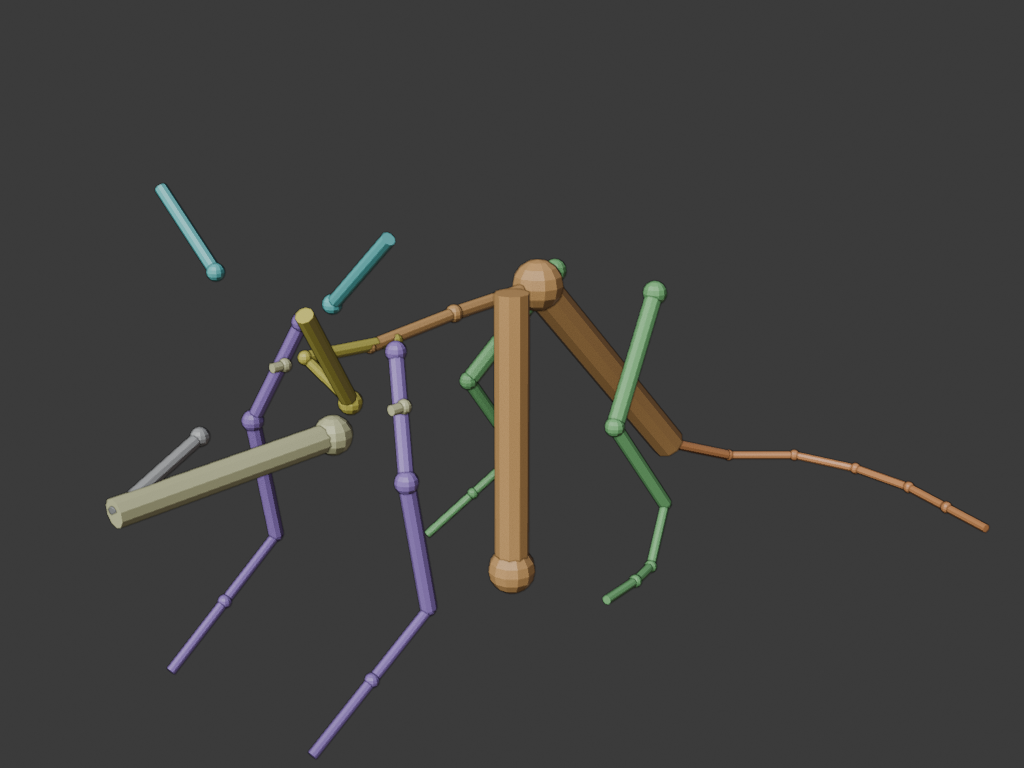
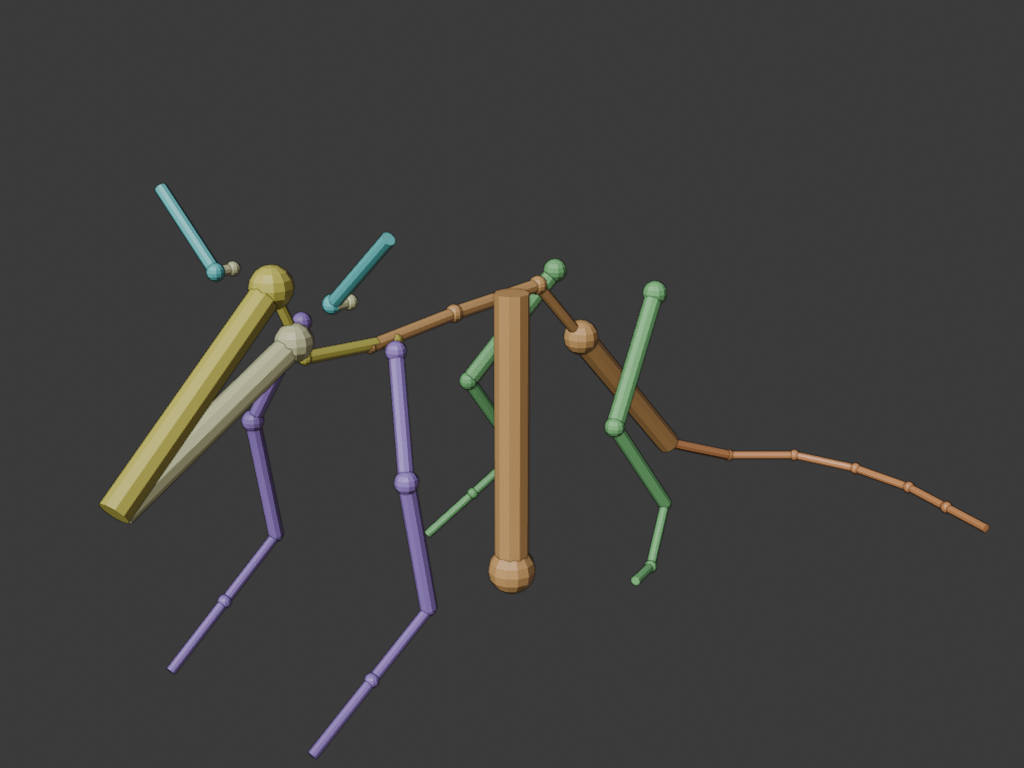
Fare v6: Stage 3 final — pelvis kısaltıldı, sacrum bridge eklendi, head/snout/jaw sentezlendi
ÖZ-ANALİZ sonrası düzeltmeler (kullanıcıya göndermeden önce):

1. Head/snout/jaw chain sentezlendi:
   - Tripo Head_1/Head_2'nin orientation'ı autorig artifact'lı (reversed)
   - Bunlar yerine ear bases + nose_tip landmark'larından SYNTHESIZE:
     head: neck_end → skull_center (midpoint of ear bases)
     snout: skull_center → nose_tip
     jaw: hinge under skull (lower-back) → chin
   - Bu sayede jaw HINGE'den dönüyor, snout kafadan AYRI

2. Pelvis kısaltıldı (33cm → 11cm):
   - Önceden pelvis spine top'tan tail base'e uzun bir bone'du
   - Şimdi short pelvis (hip joint level) + sacrum bridge (pelvis tail → tail_01 head)
   - Sacrum: yeni intermediate bone, anatomik olarak doğru (omurların sacrum'u)

3. x_center artık AABB midpoint değil mesh vert MEAN'i
   - Tripo mesh asimetrik (mean X=-0.033, mirror dist 3.9cm)
   - Sentezlenmiş bone'lar (jaw, eyes, lips) artık mesh gerçek merkez ekseninde

4. Back legs L/R simetri analizi:
   - Tripo L side: hip.L → thigh.L (1_Left_Limb_0) → shin.L → back_paw.L
   - Tripo R side: hip.R (bone_17) → thigh.R (bone_18) → shin.R → back_paw.R
   - Şimdi her iki taraf 4-bone chain (toes_L kaldırıldı, asimetri giderildi)

37 kemik. Stage 3 GATE: PASS ✓ (13/13)
Yedek: fare/1.deneme/ (v1-v5 önceki tüm denemeler)

diff --git a/fare/scripts/rig_mouse_v6.py b/fare/scripts/rig_mouse_v6.py
@@ -55,15 +55,14 @@ TRIPO_MAP = {
     # spine
     "tripo::Spine_0":        "spine_01",  # at hips
     "tripo::Spine_1":        "spine_02",  # at chest
-    # head chain
+    # head chain — only neck is reliable from Tripo. head/snout/jaw are
+    # SYNTHESIZED from landmark positions because Tripo's Head_1/Head_2
+    # have reversed orientations (autogenerated, not anatomical).
     "tripo::Head_0":         "neck",
-    "tripo::Head_1":         "head",
-    "tripo::Head_2":         "snout",
-    "tripo::Head_3":         "jaw_root",  # snout extension — we'll synthesize jaw separately
     # ears
     "bone_7":                "ear.L",   # x=+0.05 → left
     "bone_6":                "ear.R",   # x=-0.12 → right
-    # front limbs
+    # front limbs (Tripo segmentation: shoulder + upper_arm + forearm + paw)
     "bone_9":                "shoulder.L",
     "tripo::0_Left_Limb_0":  "upper_arm.L",
     "tripo::0_Left_Limb_1":  "forearm.L",
@@ -72,12 +71,15 @@ TRIPO_MAP = {
     "tripo::0_Right_Limb_0": "upper_arm.R",
     "tripo::0_Right_Limb_1": "forearm.R",
     "tripo::0_Right_Limb_2": "front_paw.R",
-    # back limbs
+    # Back limbs — Tripo is ASYMMETRIC (left has more segments than right).
+    # We map both sides to the SAME 4-bone chain: hip → thigh → shin → paw.
+    # Left side: bone_27 (hip), Tripo Limb 0/1/2 (thigh/shin/paw), Limb 3 = toes.
+    # Right side: bone_17+18 (hip+thigh), Limb 0 (shin), Limb 1 (paw).
     "bone_27":               "hip.L",
     "tripo::1_Left_Limb_0":  "thigh.L",
     "tripo::1_Left_Limb_1":  "shin.L",
     "tripo::1_Left_Limb_2":  "back_paw.L",
-    "tripo::1_Left_Limb_3":  "back_toes.L",     # extra Tripo segment
+    # Limb_3 is an extra toe segment we'll discard for symmetry.
     "bone_17":               "hip.R",
     "bone_18":               "thigh.R",
     "tripo::1_Right_Limb_0": "shin.R",
@@ -214,10 +216,15 @@ def build_armature_stage3(tripo_bones, mesh_obj):
     x_min, x_max = min(xs), max(xs)
     y_min, y_max = min(ys), max(ys)
     z_min, z_max = min(zs), max(zs)
-    x_center = (x_max + x_min) / 2
+    # The Tripo mesh is asymmetric; use the mean X of vertices as the symmetry
+    # axis for synthesized bones (jaw, eyes, lips) so they sit on the mesh's
+    # actual centerline rather than the AABB midpoint (which is off-center).
+    x_center = sum(xs) / len(xs)
     x_half = (x_max - x_min) / 2
     y_size = y_max - y_min
     z_size = z_max - z_min
+    log(f"  AABB: X=[{x_min:.3f},{x_max:.3f}] Y=[{y_min:.3f},{y_max:.3f}] Z=[{z_min:.3f},{z_max:.3f}]")
+    log(f"  x_center (mesh mean, NOT AABB mid): {x_center:.4f}")
 
     # Head dir: from Tripo, head_y < tail_y (head at -Y)
     head_y = tripo_bones["tripo::Head_3"][1].y
@@ -259,28 +266,37 @@ def build_armature_stage3(tripo_bones, mesh_obj):
     #   root → spine_01 (= Tripo Spine_0) → spine_02 (= Tripo Spine_1) → neck (= Head_0)
     # We need to INSERT pelvis between root and spine_01.
 
-    # SYNTHESIZE pelvis (between root and spine_01) at the actual hip joint
-    # location — midway between spine top and tail base, which is where the
-    # back legs connect anatomically.
+    # SYNTHESIZE pelvis + sacrum:
+    # - pelvis: short bone at hip-joint level (where back legs attach)
+    # - sacrum: bridge bone from pelvis to tail base (anatomical sacrum)
+    # This avoids one giant 33cm pelvis bone AND keeps tail visually connected.
     root_b = created["root"]
     spine01_b = created["spine_01"]
     tail01_b = created.get("tail_01")
-    # Pelvis HEAD = spine_01 base (hip end of spine), TAIL = toward tail base
     pelvis_h = spine01_b.head.copy()
     if tail01_b is not None:
-        # Tail extends backward from pelvis — point pelvis bone at the tail base
-        pelvis_t = tail01_b.head.copy()
+        # Pelvis stub goes 30% of way toward tail (hip joint region)
+        pelvis_t = pelvis_h.lerp(tail01_b.head, 0.30)
     else:
-        pelvis_t = spine01_b.head + Vector((0, head_dir * 0.04, -0.02))
+        pelvis_t = spine01_b.head + Vector((0, -head_dir * 0.05, -0.03))
     pelvis_t = snap_to_inside(bvh, pelvis_t)
     pelvis_b = eb.new("pelvis")
     pelvis_b.head = pelvis_h
     pelvis_b.tail = pelvis_t
     pelvis_b.parent = root_b
     created["pelvis"] = pelvis_b
-    # spine_01 now parent = pelvis (spine extends forward from pelvis)
     spine01_b.parent = pelvis_b
     spine01_b.use_connect = False
+
+    # SACRUM bridge: pelvis.tail → tail_01.head (visible connection)
+    if tail01_b is not None:
+        sacrum_b = eb.new("sacrum")
+        sacrum_b.head = pelvis_t.copy()
+        sacrum_b.tail = tail01_b.head.copy()
+        sacrum_b.parent = pelvis_b
+        sacrum_b.use_connect = True
+        sacrum_b.bbone_segments = 2
+        created["sacrum"] = sacrum_b
 
     # SYNTHESIZE chest (between spine_02 and neck — ChatGPT spec wants chest)
     spine02_b = created["spine_02"]
@@ -303,26 +319,54 @@ def build_armature_stage3(tripo_bones, mesh_obj):
     spine02_b.parent = spine01_b
     spine02_b.use_connect = True
 
-    # Head bone parent → neck (already from Tripo: Head_1's parent is Head_0/neck)
-    head_b = created["head"]
+    # SYNTHESIZE head, snout, jaw cleanly — Tripo's Head_1/Head_2 have
+    # auto-generated REVERSED orientations that don't match anatomy. We use
+    # only landmark positions (neck end, nose tip, ear bases) to construct
+    # properly oriented bones.
+
+    # Landmarks
+    neck_end = neck_b.tail.copy()           # back of skull (anchor)
+    nose_tip = tripo_bones["tripo::Head_3"][1].copy()  # snout tip
+    ear_L_base = tripo_bones["bone_7"][0].copy()       # left ear root
+    ear_R_base = tripo_bones["bone_6"][0].copy()       # right ear root
+    # Skull center = midpoint of ear bases (top of skull, between ears)
+    skull_center = (ear_L_base + ear_R_base) * 0.5
+    log(f"  Skull center (midpoint of ears): {skull_center}")
+    log(f"  Nose tip: {nose_tip}")
+
+    # HEAD bone: neck_end → skull_center (cranium, the bone that rotates with skull)
+    head_b = eb.new("head")
+    head_b.head = neck_end
+    head_b.tail = skull_center
     head_b.parent = neck_b
     head_b.use_connect = True
+    head_b.bbone_segments = 2
+    created["head"] = head_b
 
-    # Snout parent → head (already from Tripo)
-    snout_b = created["snout"]
+    # SNOUT bone: skull_center → nose_tip (muzzle, projects forward from skull)
+    snout_b = eb.new("snout")
+    snout_b.head = skull_center
+    snout_b.tail = nose_tip
     snout_b.parent = head_b
     snout_b.use_connect = True
+    snout_b.bbone_segments = 2
+    created["snout"] = snout_b
 
-    # SYNTHESIZE jaw (under skull, hinging from back of head)
-    # Find approximate jaw hinge: at head_b.head Y but lower Z
-    skull_center_z = head_b.head.z * 0.5 + head_b.tail.z * 0.5
-    jaw_h = Vector((x_center, head_b.head.y, skull_center_z - z_size * 0.10))
-    jaw_h = snap_to_inside(bvh, jaw_h)
-    jaw_t = tripo_bones["tripo::Head_3"][1]  # nose tip
+    # JAW bone: hinge UNDER the skull (where mandible attaches), extend to chin
+    # Jaw hinge is at the back-lower of the skull, just behind & below skull_center
+    jaw_hinge = Vector((x_center,
+                        skull_center.y + head_dir * (-0.02),  # slightly behind skull center
+                        skull_center.z - z_size * 0.12))      # below skull center
+    jaw_hinge = snap_to_inside(bvh, jaw_hinge)
+    # Jaw tail at lower-chin point (forward to nose Y, but lower Z than snout)
+    jaw_tip = Vector((x_center,
+                      nose_tip.y - head_dir * 0.02,  # slightly behind nose tip
+                      nose_tip.z - z_size * 0.03))   # below snout tip = chin
     jaw_b = eb.new("jaw")
-    jaw_b.head = jaw_h
-    jaw_b.tail = jaw_t.copy()
+    jaw_b.head = jaw_hinge
+    jaw_b.tail = jaw_tip
     jaw_b.parent = head_b
+    jaw_b.bbone_segments = 2
     created["jaw"] = jaw_b
 
     # Ears parent → head (Tripo had them under snout = Head_2, but per ChatGPT
@@ -335,7 +379,7 @@ def build_armature_stage3(tripo_bones, mesh_obj):
     # SYNTHESIZE eyes (left/right) — parent to head
     # Place at skull center, lateral, on skull surface
     eye_y = (head_b.head.y + head_b.tail.y) * 0.5
-    eye_z = skull_center_z
+    eye_z = skull_center.z
     for side, sx in (("L", +1), ("R", -1)):
         eye_pos = Vector((x_center + sx * x_half * 0.30, eye_y, eye_z))
         eye_b = eb.new(f"eye.{side}")
@@ -362,7 +406,11 @@ def build_armature_stage3(tripo_bones, mesh_obj):
             paw.parent = fore
             paw.use_connect = True
 
-    # Back legs — hip parents to pelvis, thigh to hip
+    # Back legs — SYMMETRIZED for L/R. Tripo gave asymmetric segmentation:
+    # Right side: bone_17 (hip) + bone_18 (thigh) + 1_Right_Limb_0 (shin) + 1_Right_Limb_1 (paw)
+    # Left side : bone_27 (hip)              + 1_Left_Limb_0 (thigh) + Limb_1 (shin) + Limb_2 (paw) + Limb_3 (toes)
+    # For symmetry: L hip should match R hip in structure. Fix L by inserting
+    # a "thigh"-equivalent from bone_27 to 1_Left_Limb_0.head if needed.
     for side in ("L", "R"):
         hip = created.get(f"hip.{side}")
         if hip is not None:
@@ -370,7 +418,7 @@ def build_armature_stage3(tripo_bones, mesh_obj):
         thigh = created.get(f"thigh.{side}")
         if thigh is not None:
             thigh.parent = hip
-            thigh.use_connect = False  # hip is short strut, don't connect
+            thigh.use_connect = False
         shin = created.get(f"shin.{side}")
         if shin is not None:
             shin.parent = thigh
@@ -379,15 +427,17 @@ def build_armature_stage3(tripo_bones, mesh_obj):
         if paw is not None:
             paw.parent = shin
             paw.use_connect = True
-        toes = created.get(f"back_toes.{side}")
-        if toes is not None:
-            toes.parent = paw
-            toes.use_connect = True
 
-    # Tail chain — tail_01 parent to pelvis (per ChatGPT spec)
+    # Tail chain — tail_01 parents to SACRUM (anatomical bridge), which itself
+    # parents to pelvis. Equivalent to "tail emerges from pelvis" per ChatGPT
+    # spec, with proper sacrum vertebra anatomy.
     tail01 = created.get("tail_01")
     if tail01 is not None:
-        tail01.parent = pelvis_b
+        if "sacrum" in created:
+            tail01.parent = created["sacrum"]
+            tail01.use_connect = True
+        else:
+            tail01.parent = pelvis_b
     # Chain through 06
     for i in range(2, 7):
         tn = f"tail_{i:02d}"

diff --git a/fare/scripts/stage3_qa.py b/fare/scripts/stage3_qa.py
@@ -81,7 +81,7 @@ CATEGORY_COLOR = {
 
 
 def categorize(name):
-    if name == "root" or name in ("pelvis", "spine_01", "spine_02", "chest"):
+    if name == "root" or name in ("pelvis", "sacrum", "spine_01", "spine_02", "chest"):
         return "spine"
     if name in ("neck", "head", "snout"):
         return "head"
@@ -266,7 +266,8 @@ def qa_gates(arm, mesh):
               ("front_paw.L", "forearm.L"),
               ("hip.L", "pelvis"), ("thigh.L", "hip.L"),
               ("shin.L", "thigh.L"), ("back_paw.L", "shin.L"),
-              ("tail_01", "pelvis")]
+              ("tail_01", "sacrum"),
+              ("sacrum", "pelvis")]
     hier_fail = []
     for child, expected_parent in chain:
         cb = arm.data.bones.get(child)
@@ -331,19 +332,20 @@ def qa_gates(arm, mesh):
         passes.append(f"tail chain {tail_count} segments")
         log(f"  ✓ Tail chain {tail_count} segments")
 
-    # 7. Tail base emerges from pelvis bone (pelvis.tail near tail_01.head)
-    pelvis = arm.data.bones.get("pelvis")
+    # 7. Tail_01 ancestry leads back to pelvis (directly or via sacrum)
     tail01 = arm.data.bones.get("tail_01")
-    if pelvis and tail01:
-        pt = mw @ pelvis.tail_local
-        th = mw @ tail01.head_local
-        dist = (pt - th).length
-        if dist > 0.05:
-            failures.append(f"tail base not at pelvis tail (dist={dist:.3f})")
-            log(f"  ✗ Tail base not at pelvis tail (dist={dist:.3f})")
+    if tail01:
+        ancestor = tail01.parent
+        ancestors = []
+        while ancestor is not None:
+            ancestors.append(ancestor.name)
+            ancestor = ancestor.parent
+        if "pelvis" in ancestors:
+            passes.append(f"tail_01 ancestry → pelvis (via {ancestors[:ancestors.index('pelvis')+1]})")
+            log(f"  ✓ tail_01 ancestry → pelvis (chain: {' → '.join(ancestors[:ancestors.index('pelvis')+1])})")
         else:
-            passes.append(f"tail emerges from pelvis (dist={dist:.3f})")
-            log(f"  ✓ Tail emerges from pelvis (pelvis.tail → tail_01.head dist={dist:.4f})")
+            failures.append(f"tail_01 has no pelvis ancestor (chain: {ancestors})")
+            log(f"  ✗ tail_01 ancestry doesn't lead to pelvis: {ancestors}")
 
     # 8. Paws near floor
     for paw_name in ("front_paw.L", "front_paw.R", "back_paw.L", "back_paw.R"):
